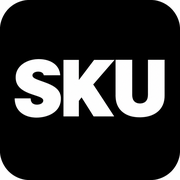
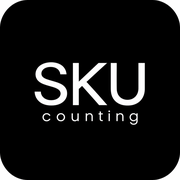
Add files via upload

diff --git a/index.html b/index.html
@@ -71,14 +71,14 @@ button:active{transform:scale(.97)}
 
 </style>
 
-<link rel="apple-touch-icon" sizes="180x180" href="apple-touch-icon.png">
-<link rel="icon" type="image/png" sizes="192x192" href="icon-192.png">
-<link rel="icon" type="image/png" sizes="512x512" href="icon-512.png">
-<link rel="manifest" href="manifest.webmanifest">
+<link rel="apple-touch-icon" sizes="180x180" href="apple-touch-icon.png?v=2">
+<link rel="icon" type="image/png" sizes="192x192" href="icon-192.png?v=2">
+<link rel="icon" type="image/png" sizes="512x512" href="icon-512.png?v=2">
+<link rel="manifest" href="manifest.webmanifest?v=2">
 <meta name="theme-color" content="#000000">
 <meta name="apple-mobile-web-app-capable" content="yes">
 <meta name="apple-mobile-web-app-status-bar-style" content="black">
-<meta name="apple-mobile-web-app-title" content="SKU">
+<meta name="apple-mobile-web-app-title" content="SKU Counting">
 
 </head>
 <body>
